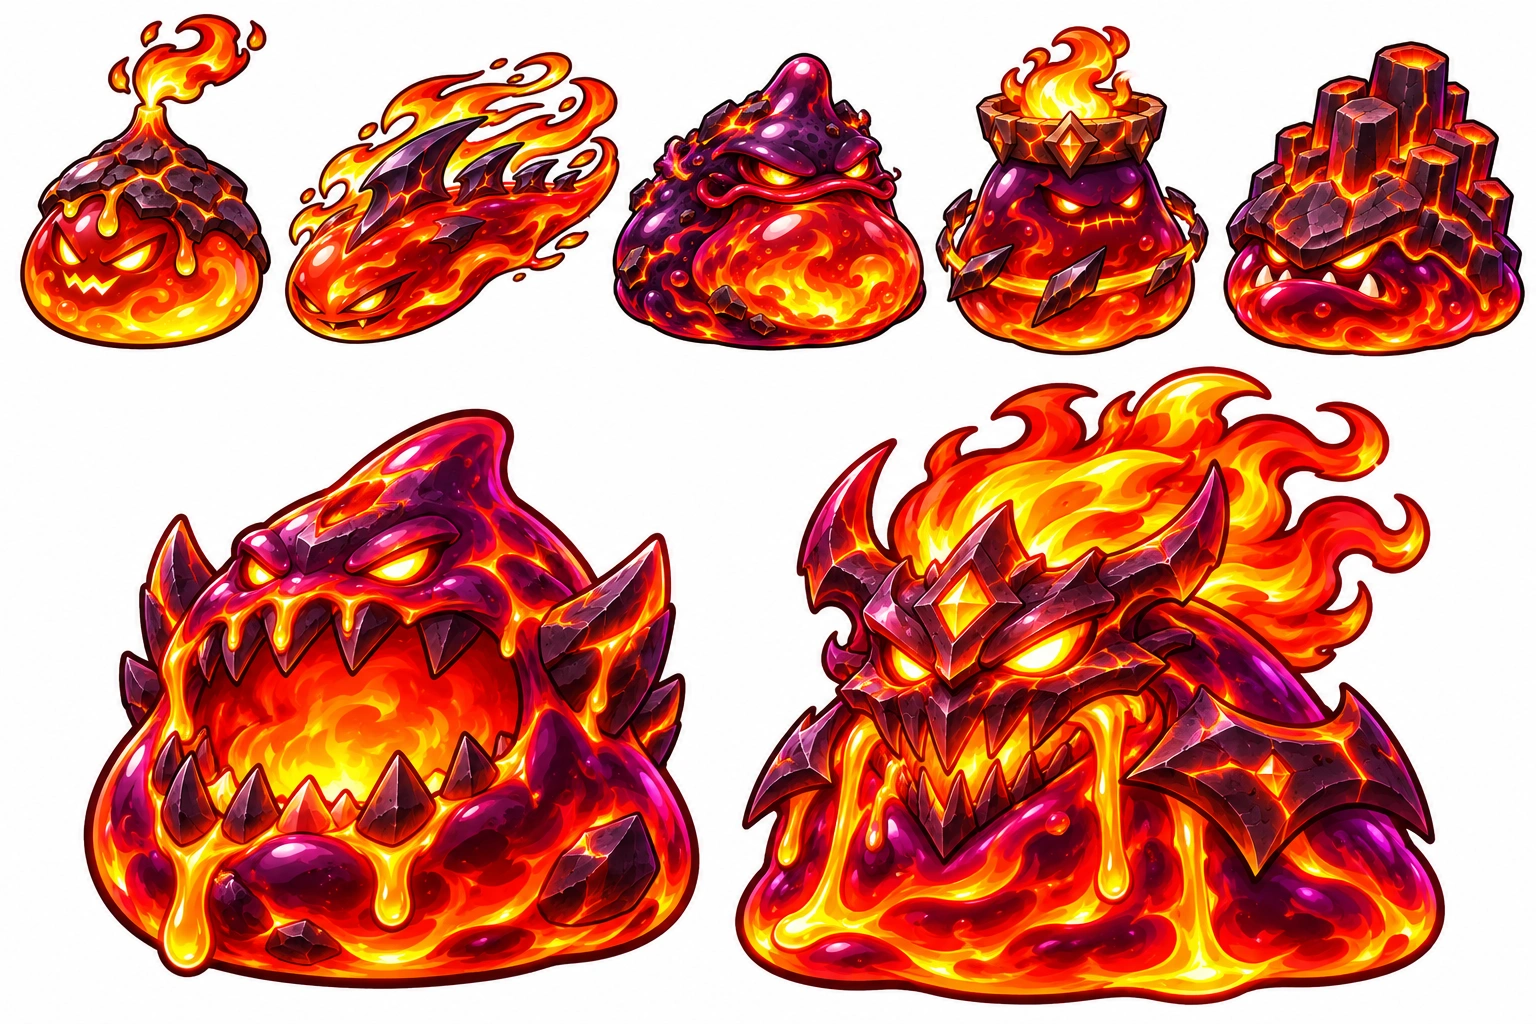
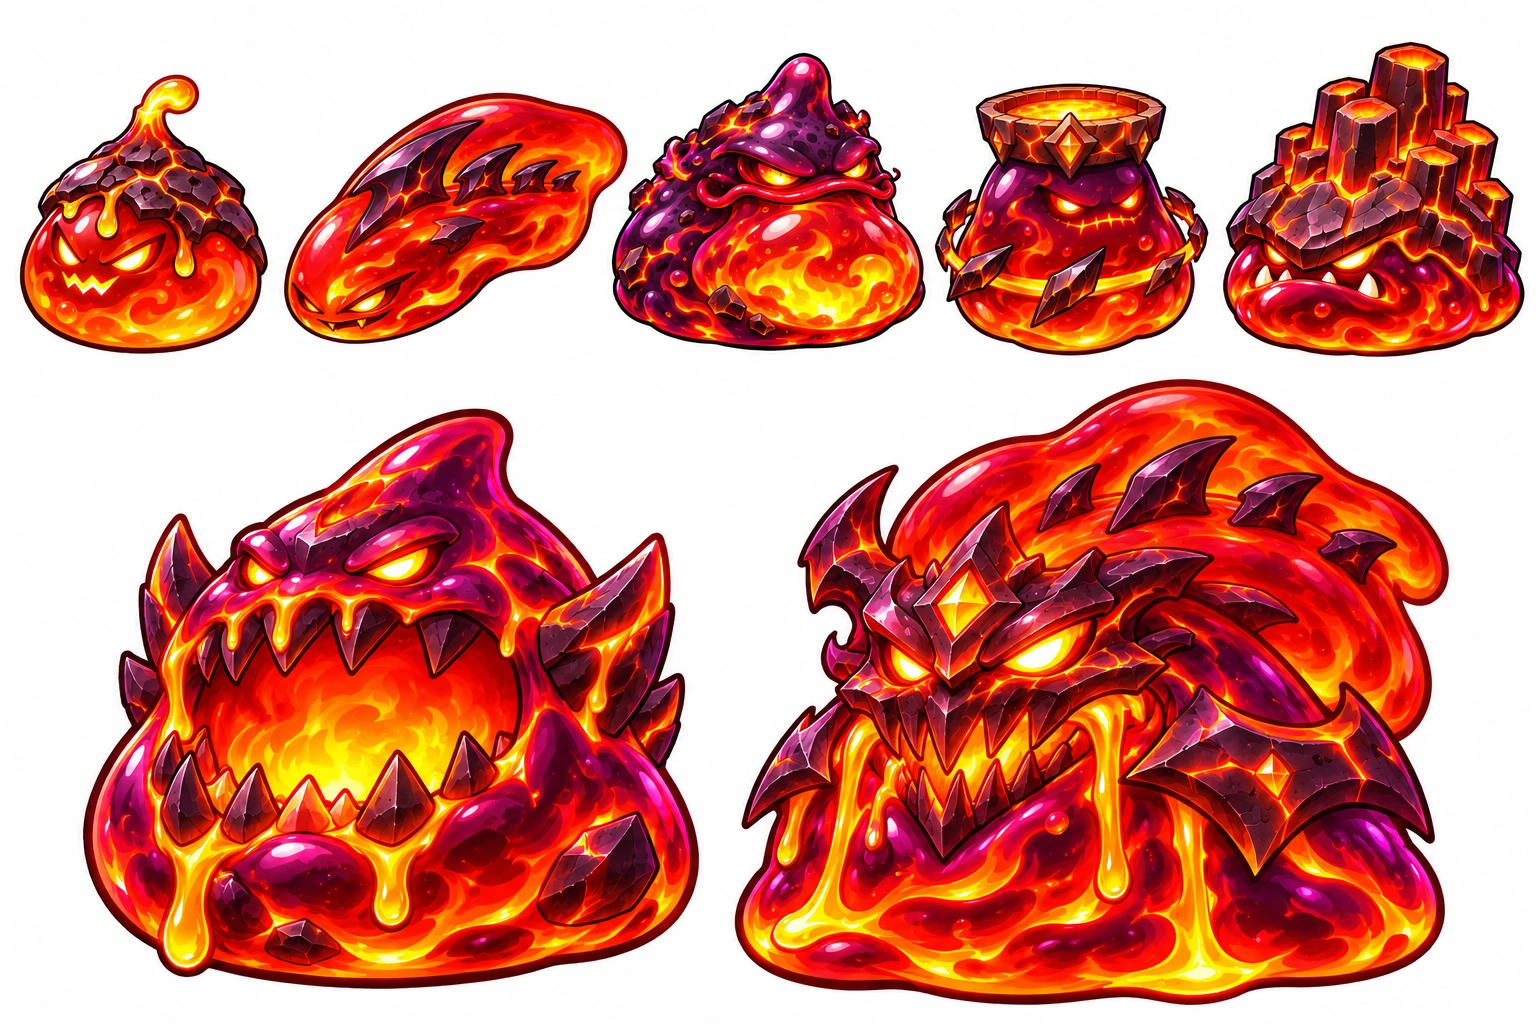
Monster slimes: the Lava group without flames
The owner wanted the flames gone too: wicks, manes and the brazier are molten jelly and lava now.

diff --git a/docs/MONSTER-SLIMES.md b/docs/MONSTER-SLIMES.md
@@ -89,6 +89,6 @@ Wickling's and the Basaltback's). One contact sheet per region: `art/concepts/mo
 
 The owner, 2026-11-11, after seeing the sheets: the monsters alone, no effects, no surroundings, no text, one picture a
 region. `art/concepts/monster_slimes/<region>/group.png` is that: ChatGPT redrew each region's seven together from their
-pictures on plain white, without smoke, mist, snow, sparks, motes, trails, breath or floating pieces. A flame that is part
-of a body stays (the Wickling's wick, the Scorchdart's mane, the Pyrekeeper's brazier, the Calderos's mane), and the
-Pyrekeeper's floating shards became a ring set into its body.
+pictures on plain white, without smoke, mist, snow, sparks, motes, trails, breath or floating pieces. No flames either
+(the owner, the same day): the Wickling's wick is a molten point, the Scorchdart's and the Calderos's manes are molten
+jelly, the Pyrekeeper's brazier holds molten lava, and its floating shards became a ring set into its body.
